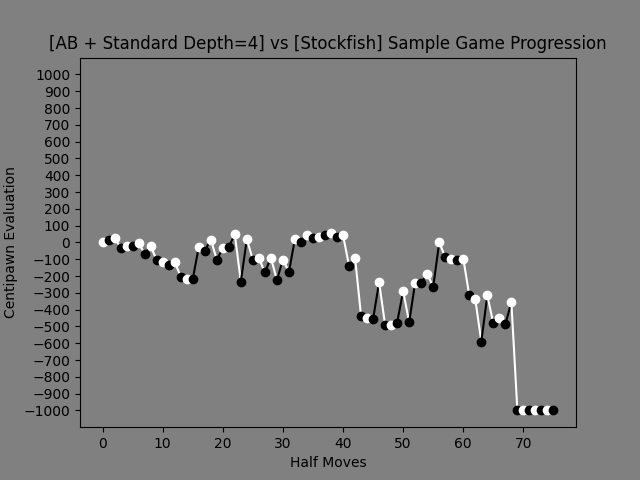
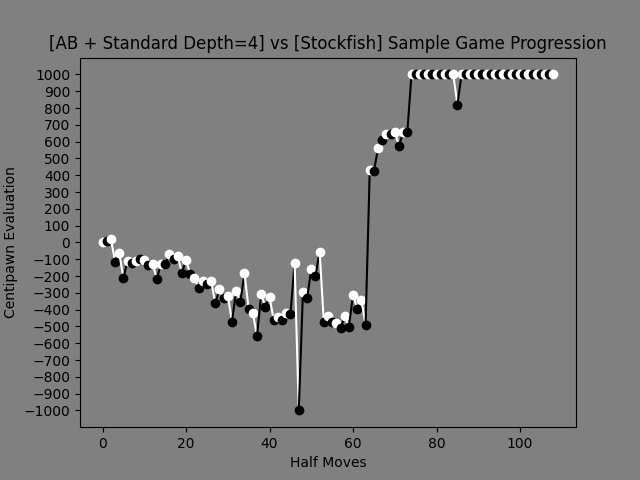
Final AB Pruning vs Stockfish

diff --git a/app/strategies/evaluators/standard_evaluator.py b/app/strategies/evaluators/standard_evaluator.py
@@ -1,7 +1,6 @@
 from .abstract_evaluator import PositionEvaluator
 import chess
 
-
 class StandardEvaluator(PositionEvaluator):
     def evaluate(self, board: chess.Board) -> float:
         """
@@ -20,8 +19,6 @@ class StandardEvaluator(PositionEvaluator):
         score += self._king_safety_rewards(board)
         score += self._piece_positioning_reward(board)
         return score
-    
-
 
     def _material_balance(self, board: chess.Board):
         # Piece values (in centipawns) -> Very high king value to discincentivize losing King.
@@ -50,8 +47,6 @@ class StandardEvaluator(PositionEvaluator):
                 
                 material_balance += value
         return material_balance
-    
-
 
     def _pawn_structure_rewards(self, board: chess.Board) -> float:
         reward = 0
@@ -94,20 +89,20 @@ class StandardEvaluator(PositionEvaluator):
 
         # White king safety:
         if board.has_kingside_castling_rights(chess.WHITE) or board.has_queenside_castling_rights(chess.WHITE):
-            score += 15
+            score += 30
         else:
             white_king_square = board.king(chess.WHITE)
             # Penalize if the white king is in a central square - Not a safe space traditionally
-            if white_king_square in [chess.E1, chess.D1, chess.E2, chess.D2, chess.C2, chess.F2]:
-                score -= 35
+            if white_king_square in [chess.E1, chess.D1]:
+                score -= 50
 
         # Black king safety:
         if board.has_kingside_castling_rights(chess.BLACK) or board.has_queenside_castling_rights(chess.BLACK):
-            score -= 15
+            score -= 30
         else:
             black_king_square = board.king(chess.BLACK)
-            if black_king_square in [chess.E8, chess.D8, chess.E7, chess.D7, chess.F7, chess.C7]:
-                score += 35
+            if black_king_square in [chess.E8, chess.D8]:
+                score += 50
 
         return score
 
@@ -127,45 +122,14 @@ class StandardEvaluator(PositionEvaluator):
             [-50, -40, -30, -30, -30, -30, -40, -50]
         ]
 
-        pawn_table = [
-            [ 0,   0,   0,   0,   0,   0,   0,   0],
-            [50,  50,  50,  50,  50,  50,  50,  50],
-            [10,  10,  20,  30,  30,  20,  10,  10],
-            [ 5,   5,  10,  25,  25,  10,   5,   5],
-            [ 0,   0,   0,  20,  20,   0,   0,   0],
-            [ 5,  -5, -10,   0,   0, -10,  -5,   5],
-            [ 5,  10,  10, -20, -20,  10,  10,   5],
-            [ 0,   0,   0,   0,   0,   0,   0,   0]
-        ]
-
-        bishop_table = [
-            [-20, -10, -10, -10, -10, -10, -10, -20],
-            [-10,   5,   0,   0,   0,   0,   5, -10],
-            [-10,  10,  10,  10,  10,  10,  10, -10],
-            [-10,   0,  10,  10,  10,  10,   0, -10],
-            [-10,   5,   5,  10,  10,   5,   5, -10],
-            [-10,   0,   5,  10,  10,   5,   0, -10],
-            [-10,   0,   0,   0,   0,   0,   0, -10],
-            [-20, -10, -10, -10, -10, -10, -10, -20]
-        ]
-
         for square, piece in board.piece_map().items():
-            rank = chess.square_rank(square)
-            file = chess.square_file(square)
-            table = None
             if piece.piece_type == chess.KNIGHT:
-                table = knight_table
-            elif piece.piece_type == chess.PAWN:
-                table = pawn_table
-            elif piece.piece_type == chess.BISHOP:
-                table = bishop_table
-            else:
-                continue
-
-            if piece.color == chess.WHITE:
-                score += table[rank][file]
-            else:
-                score -= table[7 - rank][file]
+                rank = chess.square_rank(square)
+                file = chess.square_file(square)
+                if piece.color == chess.WHITE:
+                    score += knight_table[rank][file]
+                else:
+                    score -= knight_table[7 - rank][file]
 
         return score
 
